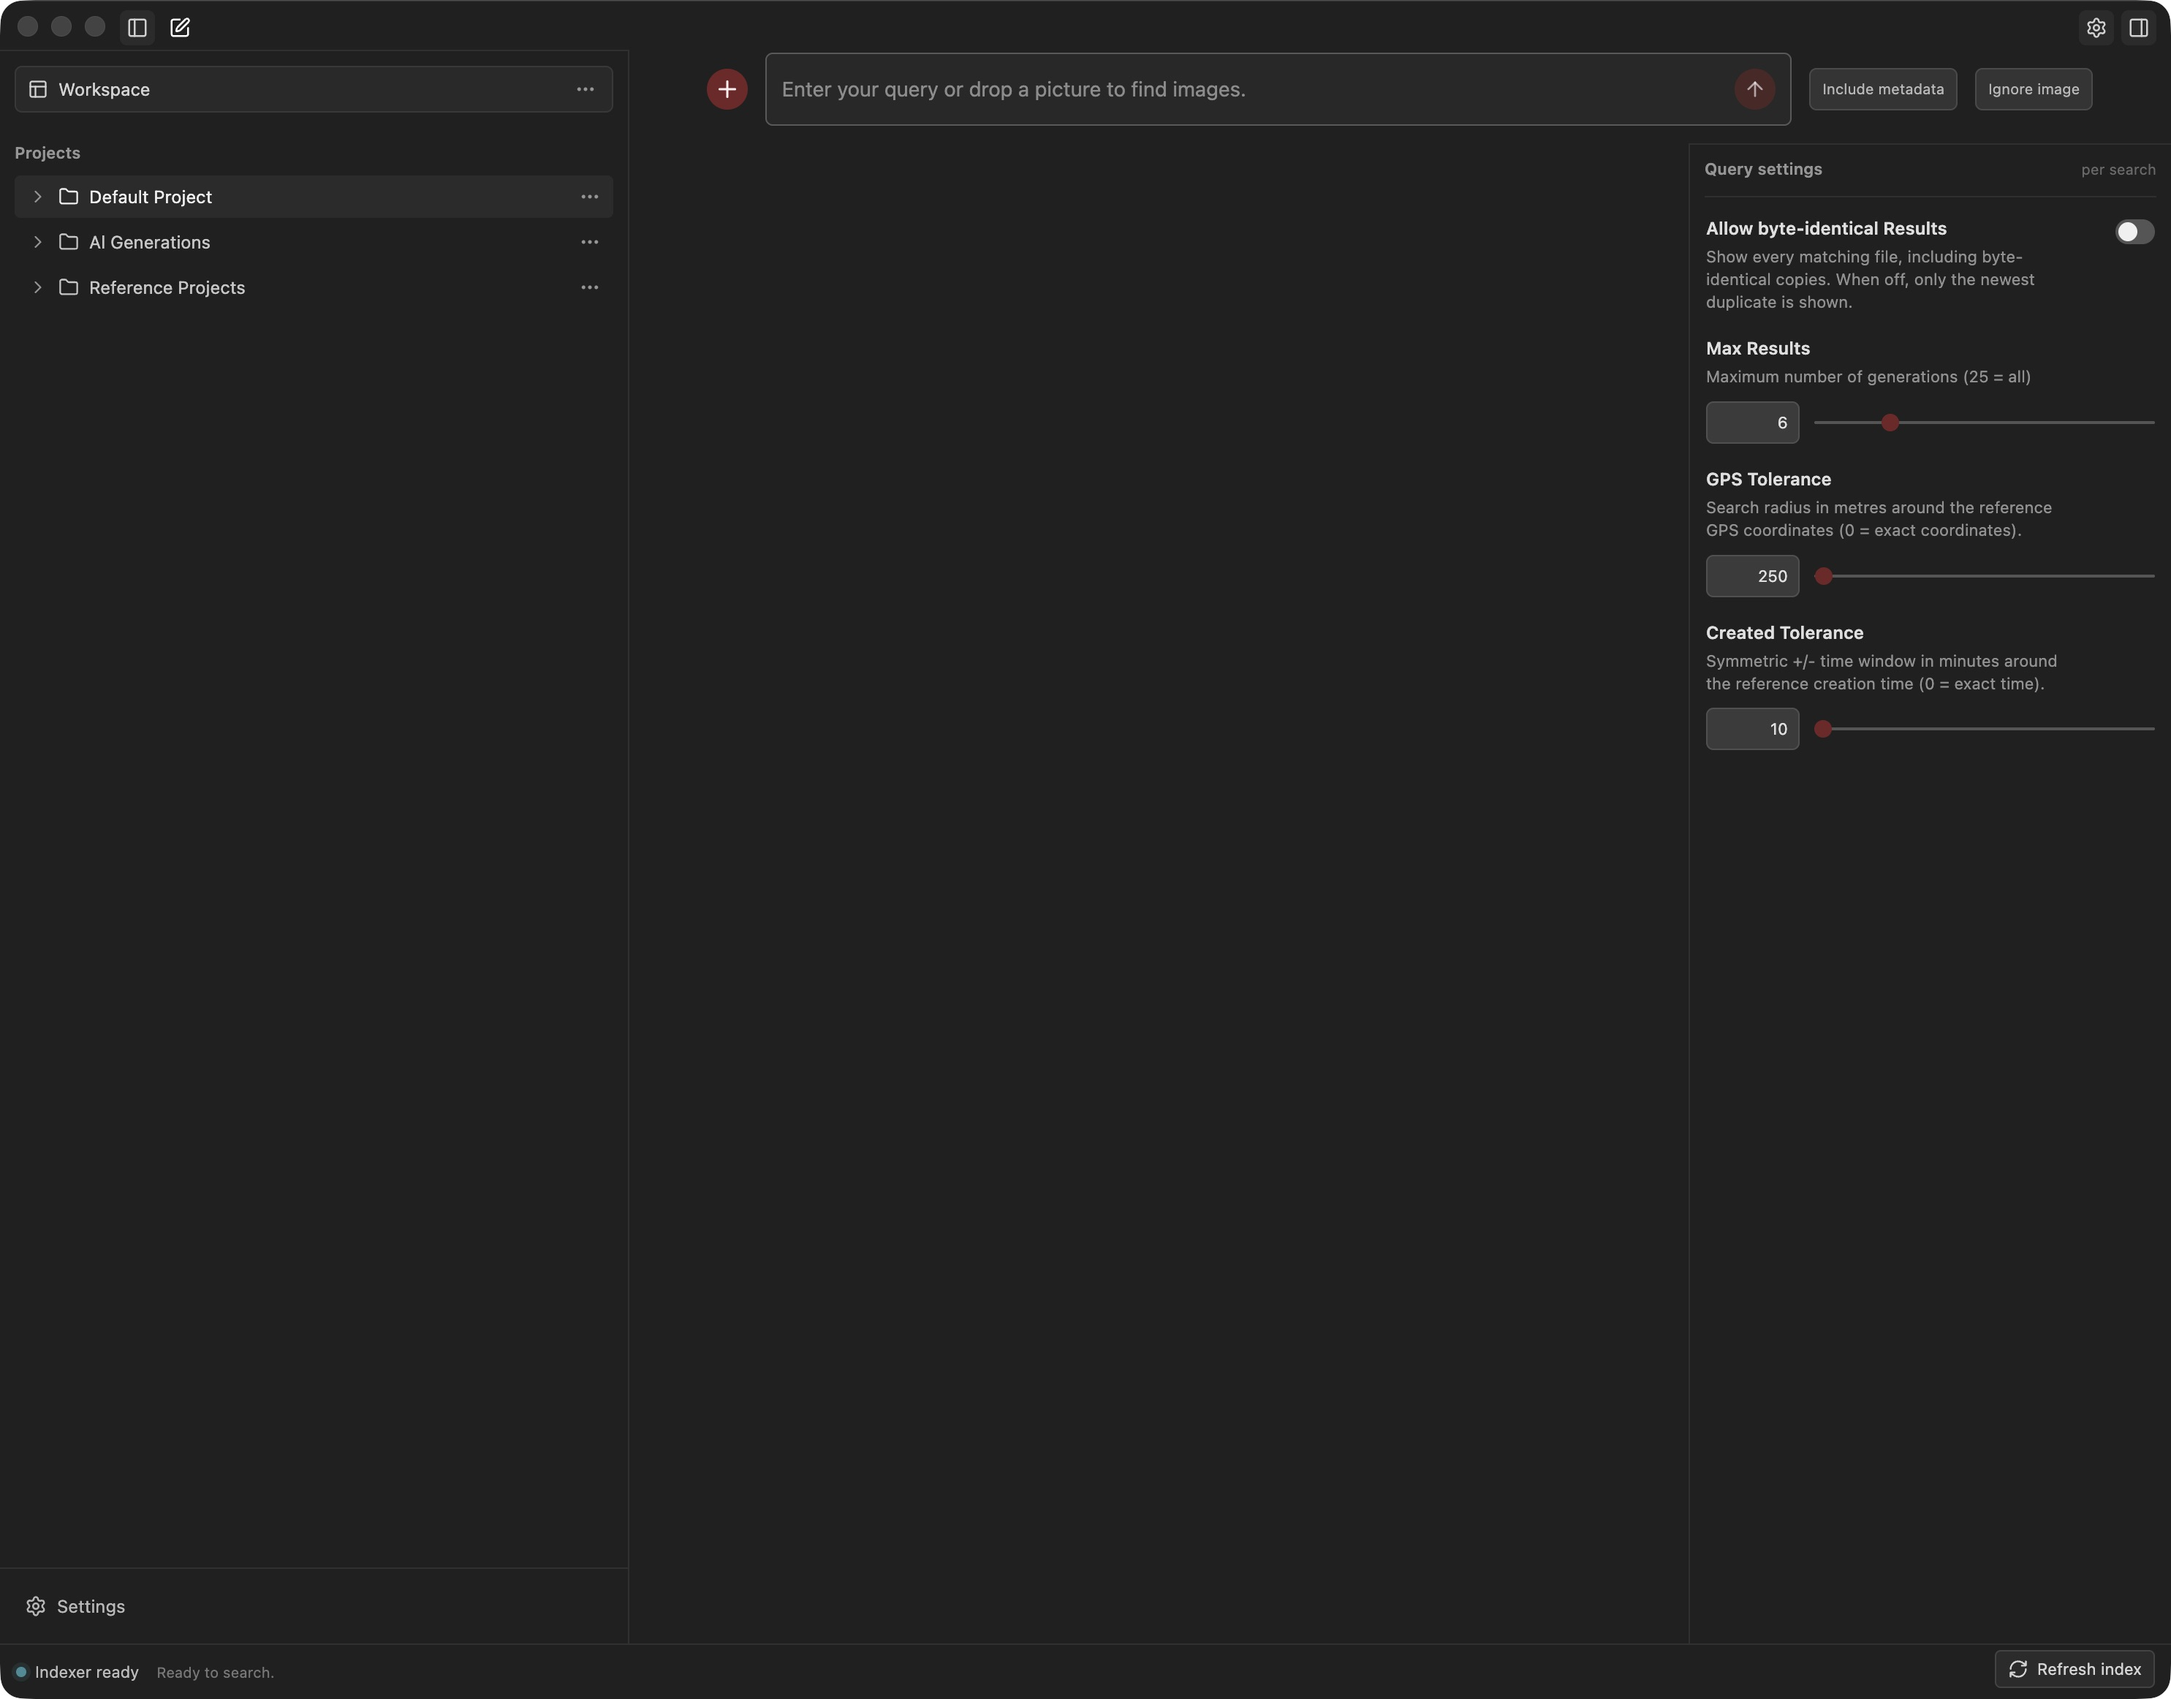
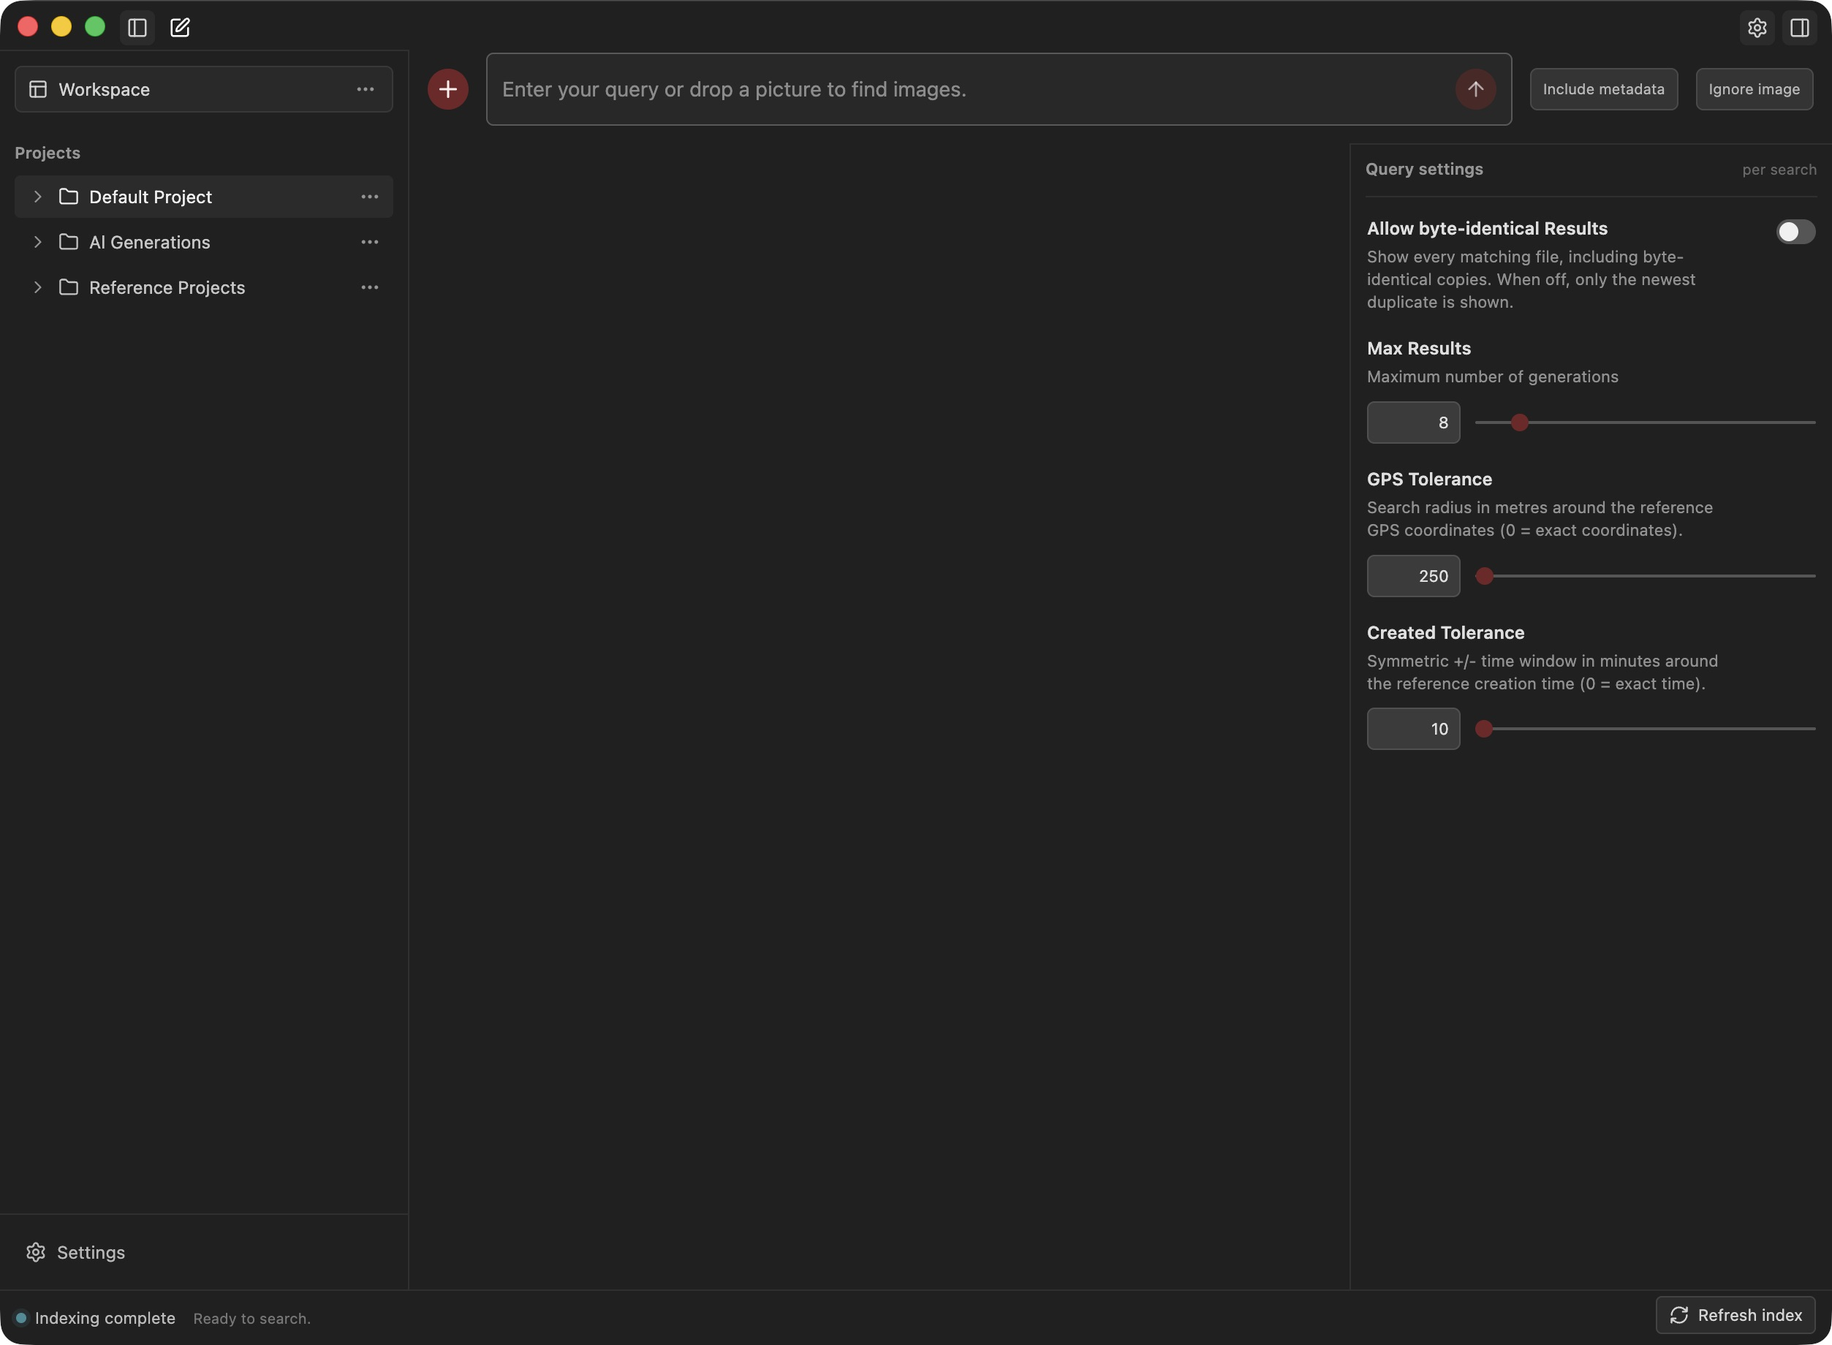
docs: log default Max Results bump to 8

diff --git a/docs/CHANGELOG.md b/docs/CHANGELOG.md
@@ -23,6 +23,8 @@ Notable changes to this project will be documented in this file.
 - Enabled Image Formats now highlights formats with repeated indexing errors in yellow.
 - Apple Photos albums now expand fully instead of scrolling in a fixed-height list.
 - Max Results now goes up to 64 and always caps results exactly, including project/filename searches.
+- Raised Max Results default value from 6 to 8.
+- Updated README to reflect these changes.
 
 ### Fixed
 
